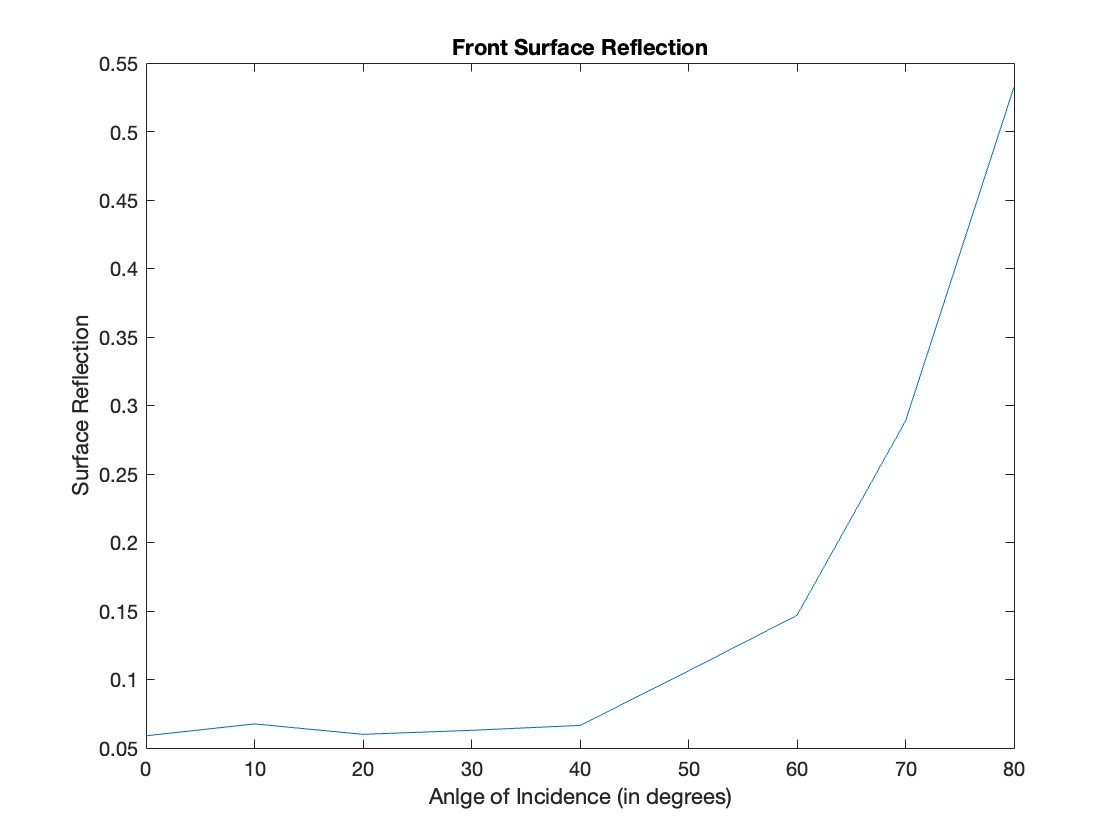
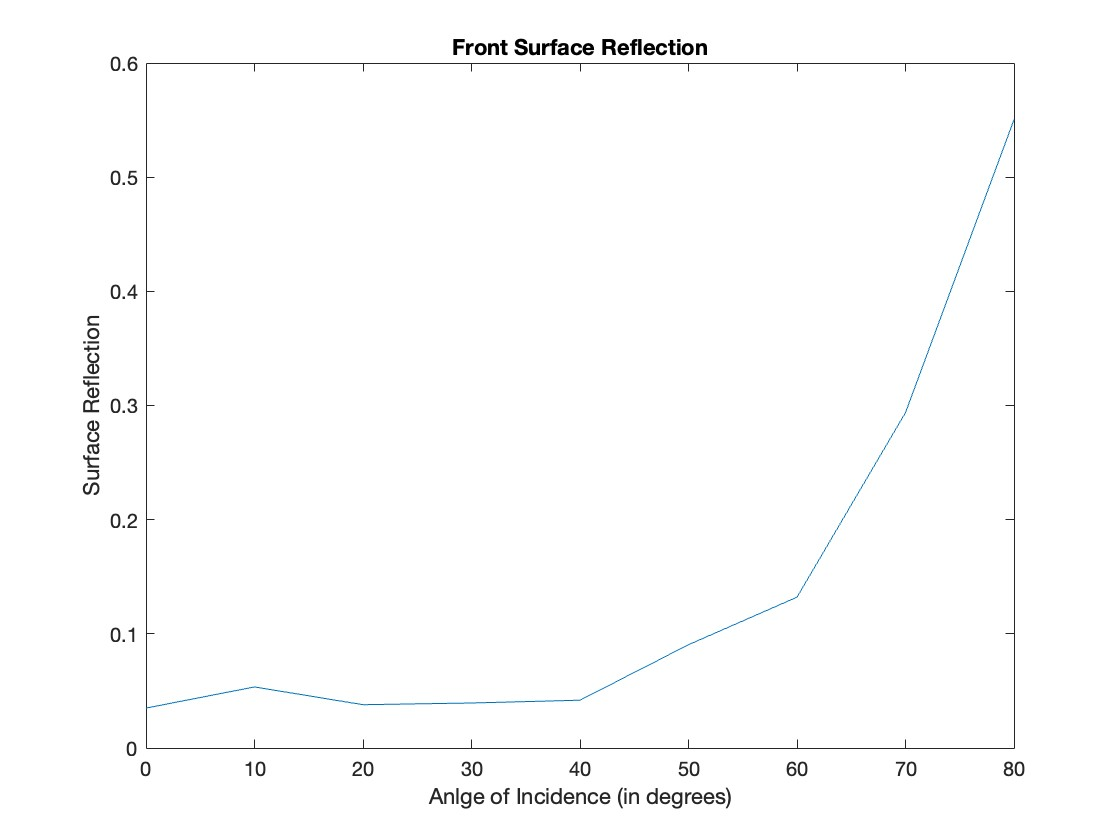
Assignment 1: Refractive Index Updated

diff --git a/Assignment 1 Optics or Snell/FrontSurfaceReflection.m b/Assignment 1 Optics or Snell/FrontSurfaceReflection.m
@@ -1,4 +1,4 @@
-n_material = 1.6410;
+n_material = 1.46;
 n_air = 1;
 surface_reflection = zeros(9,1);
 angle_incidence = linspace(0,80,9)
